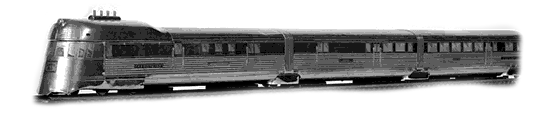
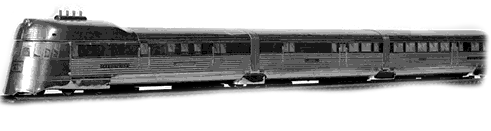
Cleanup structure and trim zephyr image

diff --git a/TrainRacer/Core/Services/Drivers/AggressiveDriver.cs b/TrainRacer/Core/Services/Drivers/AggressiveDriver.cs
@@ -2,9 +2,9 @@
 using TrainRacer.Contract;
 using TrainRacer.Contract.Enums;
 
-namespace TrainRacer.Core.Models.Drivers
+namespace TrainRacer.Core.Services.Drivers
 {
-    public class CautiousDriver : BaseDriver
+    public class AggressiveDriver : BaseDriver
     {
         private readonly Random _random = new();
 
@@ -12,8 +12,9 @@ namespace TrainRacer.Core.Models.Drivers
         {
             train.CurrentSpeed = train.CurrentSpeed switch
             {
-                double x when x < train.TopSpeed * 0.1 => train.CurrentSpeed * 1.1,
-                double x when x > train.TopSpeed - (train.TopSpeed * 0.05) => train.CurrentSpeed * 0.9,
+                double x when x < train.TopSpeed * 0.1 => train.CurrentSpeed * 1.5,
+                double x when x < train.TopSpeed * 0.5 => train.CurrentSpeed * 1.2,
+                double x when x < train.TopSpeed * 0.8 => train.CurrentSpeed * 1.1,
                 _ => train.CurrentSpeed
             };
         }
@@ -22,8 +23,8 @@ namespace TrainRacer.Core.Models.Drivers
         {
             return _random.Next(10) switch
             {
-                int i when i < 5 => DriverIntention.Accelerate,
-                int i when i < 7 => DriverIntention.Decelerate,
+                int i when i < 7 => DriverIntention.Accelerate,
+                int i when i < 9 => DriverIntention.Decelerate,
                 _ => DriverIntention.MaintainSpeed
             };
         }

diff --git a/TrainRacer/Core/Services/Drivers/CautiousDriver.cs b/TrainRacer/Core/Services/Drivers/CautiousDriver.cs
@@ -2,9 +2,9 @@
 using TrainRacer.Contract;
 using TrainRacer.Contract.Enums;
 
-namespace TrainRacer.Core.Models.Drivers
+namespace TrainRacer.Core.Services.Drivers
 {
-    public class AggressiveDriver : BaseDriver
+    public class CautiousDriver : BaseDriver
     {
         private readonly Random _random = new();
 
@@ -12,9 +12,8 @@ namespace TrainRacer.Core.Models.Drivers
         {
             train.CurrentSpeed = train.CurrentSpeed switch
             {
-                double x when x < train.TopSpeed * 0.1 => train.CurrentSpeed * 1.5,
-                double x when x < train.TopSpeed * 0.5 => train.CurrentSpeed * 1.2,
-                double x when x < train.TopSpeed * 0.8 => train.CurrentSpeed * 1.1,
+                double x when x < train.TopSpeed * 0.1 => train.CurrentSpeed * 1.1,
+                double x when x > train.TopSpeed - train.TopSpeed * 0.05 => train.CurrentSpeed * 0.9,
                 _ => train.CurrentSpeed
             };
         }
@@ -23,8 +22,8 @@ namespace TrainRacer.Core.Models.Drivers
         {
             return _random.Next(10) switch
             {
-                int i when i < 7 => DriverIntention.Accelerate,
-                int i when i < 9 => DriverIntention.Decelerate,
+                int i when i < 5 => DriverIntention.Accelerate,
+                int i when i < 7 => DriverIntention.Decelerate,
                 _ => DriverIntention.MaintainSpeed
             };
         }

diff --git a/TrainRacer/App.xaml.cs b/TrainRacer/App.xaml.cs
@@ -3,10 +3,10 @@ using Prism.Ioc;
 using System.Windows;
 using TrainRacer.Contract;
 using TrainRacer.Core.Controllers;
-using TrainRacer.Core.Models.Drivers;
 using TrainRacer.Core.Models.Tracks;
 using TrainRacer.Core.Models.Trains;
 using TrainRacer.Core.Services;
+using TrainRacer.Core.Services.Drivers;
 
 namespace TrainRacer
 {

diff --git a/TrainRacer/Core/Services/Drivers/BaseDriver.cs b/TrainRacer/Core/Services/Drivers/BaseDriver.cs
@@ -2,7 +2,7 @@
 using TrainRacer.Contract.Enums;
 using TrainRacer.Contract.Extensions;
 
-namespace TrainRacer.Core.Models.Drivers
+namespace TrainRacer.Core.Services.Drivers
 {
     public abstract class BaseDriver : IDriver
     {

diff --git a/TrainRacer/Core/Services/Drivers/ErraticDriver.cs b/TrainRacer/Core/Services/Drivers/ErraticDriver.cs
@@ -2,7 +2,7 @@
 using TrainRacer.Contract;
 using TrainRacer.Contract.Enums;
 
-namespace TrainRacer.Core.Models.Drivers
+namespace TrainRacer.Core.Services.Drivers
 {
     public class ErraticDriver : BaseDriver
     {
